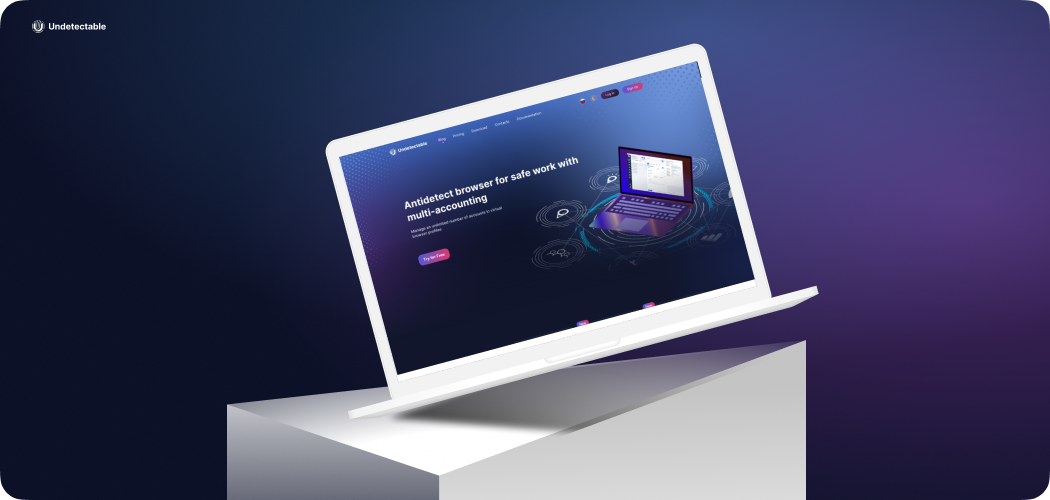
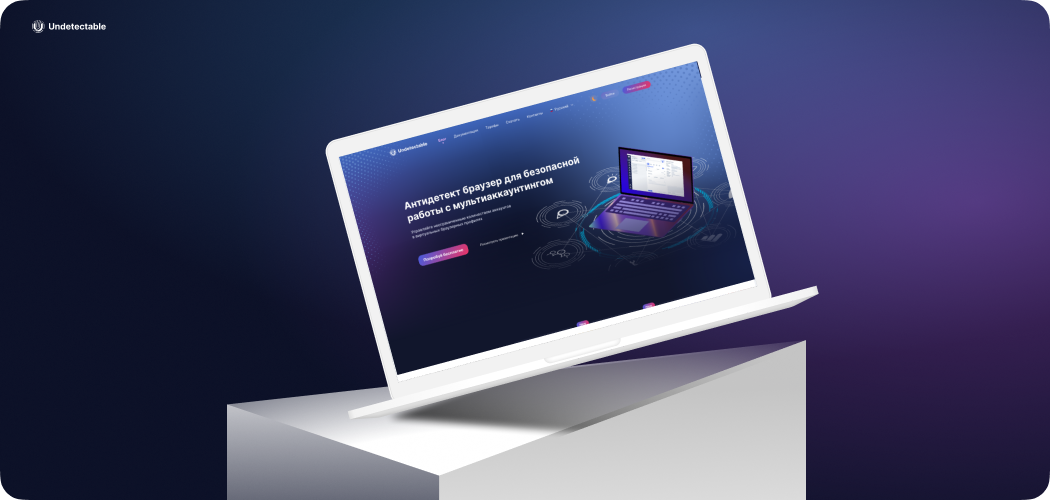
fix

diff --git a/docs/introduction/about-product.md b/docs/introduction/about-product.md
@@ -10,4 +10,4 @@ import ReactPlayer from 'react-player'
 Undetectable is an antidetection browser for safe business and anonymous web surfing on the Internet. Developed on the basis of Chromium, it provides users with a set of tools to protect their privacy and automate work with content. Undetectable is actively developing, daily supplementing its functionality and expanding its capabilities.
 If you want to try it in action, this guide will become your assistant.
 
-![Docusaurus logo](/img/introduction/introduction-1.png)
+![Docusaurus logo](/img/introduction/introduction-1-eng.png)
